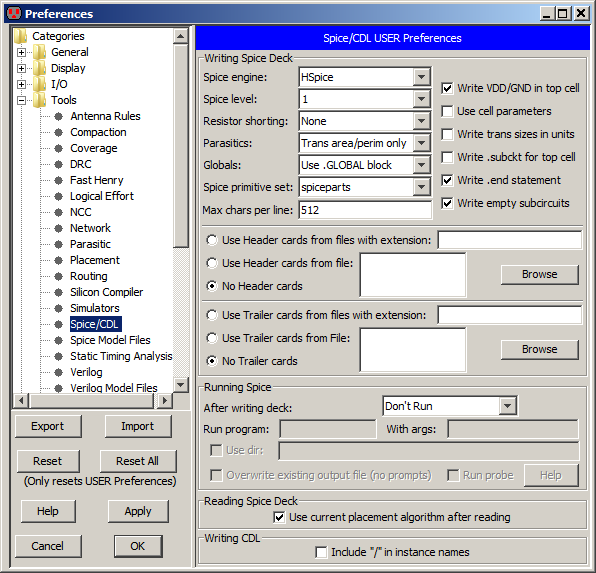
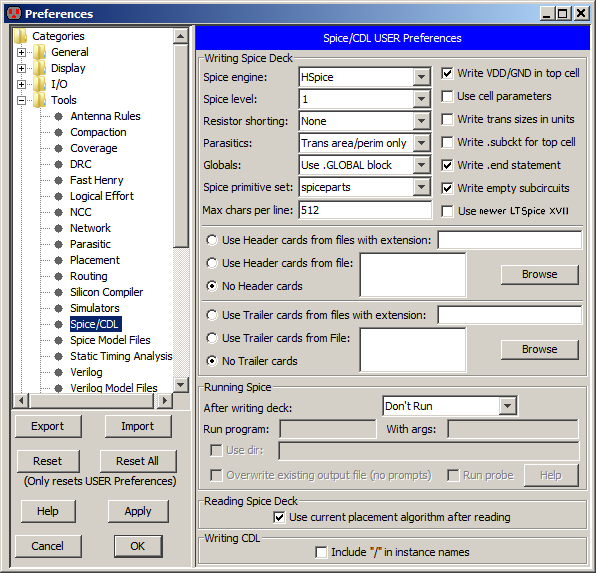
New code to handle latest LTSpice raw output
git-svn-id: svn://svn.savannah.gnu.org/electric/trunk@235 b905213a-9962-419e-bd63-4c908b0646d6

Changed region(s): [[0.7248, 0.1187, 0.9966, 0.3857]]

diff --git a/electric/electric-java/com/sun/electric/tool/user/help/helphtml/chap09-04-03.html b/electric/electric-java/com/sun/electric/tool/user/help/helphtml/chap09-04-03.html
@@ -164,6 +164,7 @@ The default is to write the top-level cell without a subcircuit wrapper.</LI>
 <LI><B>Write .end statement</B> Requests that an .end statement be written at the end of the deck.
 This can be disabled in situations where the deck is part of a larger Spice deck.</LI>
 <LI><B>Write empty subcircuits</B> Requests that all subcircuits be written to the deck, even those with nothing in them.</LI>
+<LI><B>Use newer LTSpice XVII</B> Requests that raw LTSpice files use the newer (version XVII) format when plotting Spice result.</LI>
 <LI><B>Use Header cards from files with extension</B>
 specifies that header cards (placed at the start of the Spice deck)
 can be found in a file with the cell's name and the given extension.</LI>

diff --git a/electric/electric-java/com/sun/electric/tool/io/input/RawSpiceOut.java b/electric/electric-java/com/sun/electric/tool/io/input/RawSpiceOut.java
@@ -6,7 +6,7 @@
  * Input/output tool: reader for Raw Spice output (.raw)
  * Written by Steven M. Rubin.
  *
- * Copyright (c) 2004, Static Free Software. All rights reserved.
+ * Copyright (c) 2020, Static Free Software. All rights reserved.
  *
  * Electric(tm) is free software; you can redistribute it and/or modify
  * it under the terms of the GNU General Public License as published by
@@ -28,15 +28,16 @@ import com.sun.electric.tool.simulation.MutableSignal;
 import com.sun.electric.tool.simulation.ScalarSample;
 import com.sun.electric.tool.simulation.Signal;
 import com.sun.electric.tool.simulation.SignalCollection;
+import com.sun.electric.tool.simulation.SimulationTool;
 import com.sun.electric.tool.simulation.Stimuli;
 import com.sun.electric.tool.simulation.SweptSample;
 import com.sun.electric.util.TextUtils;
 
+import java.io.File;
 import java.io.IOException;
-import java.nio.ByteOrder;
 import java.net.URL;
+import java.nio.ByteOrder;
 import java.util.ArrayList;
-import java.util.HashMap;
 import java.util.List;
 
 /**
@@ -64,12 +65,15 @@ public class RawSpiceOut extends Input<Stimuli>
 		// open the file
 		if (openBinaryInput(fileURL)) return sd;
 
+        // see if using newer or older versions of raw LTSpice
+		boolean newRawLTspice = SimulationTool.isSpiceUseNewerLTSpice();
+
 		// show progress reading .raw file
-		System.out.println("Reading Spice3/NGSpice/LTSpice/SmartSpice raw output file: " + fileURL.getFile());
+		System.out.println("Reading Spice3/NGSpice/" + (newRawLTspice ? "LTSpiceXVII" : "LTSpiceIV") + "/SmartSpice raw output file: " + fileURL.getFile());
 		startProgressDialog("LTSpice output", fileURL.getFile());
 
-		// read the actual signal data from the .raw file
-		sd = readRawSpice3File(cell, sd);
+        // read the actual signal data from the .raw file
+		sd = readRawSpice3File(cell, sd, newRawLTspice);
 
 		// stop progress dialog, close the file
 		stopProgressDialog();
@@ -77,7 +81,7 @@ public class RawSpiceOut extends Input<Stimuli>
         return sd;
 	}
 
-	private Stimuli readRawSpice3File(Cell cell, Stimuli sd)
+	private Stimuli readRawSpice3File(Cell cell, Stimuli sd, boolean newRawLTspice)
 		throws IOException
 	{
 		complexValues = false;
@@ -98,6 +102,7 @@ public class RawSpiceOut extends Input<Stimuli>
 			String line = getLineFromBinary();
 			if (line == null) break;
 			updateProgressDialog(line.length());
+			if (newRawLTspice) line = new String(line.getBytes(), "UTF-16");
 
 			// make sure this isn't an HSPICE deck (check first line)
 			if (first)
@@ -344,6 +349,7 @@ if (OLD) firstFieldIsTime = true;
                         restOfLine = getLineFromBinary();
                         if (restOfLine == null) break;
                         updateProgressDialog(restOfLine.length());
+                        if (newRawLTspice) restOfLine = new String(restOfLine.getBytes(), "UTF-16");
                         restOfLine = restOfLine.trim();
                         int indexOnLine = TextUtils.atoi(restOfLine);
                         if (indexOnLine != i)
@@ -395,6 +401,13 @@ if (OLD) continue;
                         System.out.println(signalCount+" VARIABLES, "+rowCount+" SAMPLES");
                         for(int i=0; i<signalCount; i++)
                             System.out.println("VARIABLE "+i+" IS "+signalNames[i]);
+                    }
+
+                    if (newRawLTspice)
+                    {
+                    	// remove a character (2 bytes) at end of header to make alignment for reading binary block
+                    	int c = dataInputStream.read();
+                    	updateProgressDialog(Integer.toString(c).length());
                     }
 
                     // read all of the data in the RAW file

diff --git a/electric/electric-java/com/sun/electric/tool/user/dialogs/options/SpiceTab.java b/electric/electric-java/com/sun/electric/tool/user/dialogs/options/SpiceTab.java
@@ -116,6 +116,7 @@ public class SpiceTab extends PreferencePanel
 		spiceWriteSubcktTopCell.setSelected(SimulationTool.isSpiceWriteSubcktTopCell());
 		spiceWriteEndStatement.setSelected(SimulationTool.isSpiceWriteFinalDotEnd());
 		spiceWriteEmptySubcircuits.setSelected(SimulationTool.isSpiceWriteEmptySubckts());
+		spiceUseNewerLTSpice.setSelected(SimulationTool.isSpiceUseNewerLTSpice());
 
 		// bottom of the top section: header and trailer cards
 		String spiceHeaderCardInitial = SimulationTool.getSpiceHeaderCardInfo();
@@ -250,6 +251,9 @@ public class SpiceTab extends PreferencePanel
 		booleanNow = spiceWriteEmptySubcircuits.isSelected();
 		if (SimulationTool.isSpiceWriteEmptySubckts() != booleanNow) SimulationTool.setSpiceWriteEmptySubckts(booleanNow);
 
+		booleanNow = spiceUseNewerLTSpice.isSelected();
+		if (SimulationTool.isSpiceUseNewerLTSpice() != booleanNow) SimulationTool.setSpiceUseNewerLTSpice(booleanNow);
+
 		// bottom of the top section: header and trailer cards
 		String header = Spice.SPICE_NOEXTENSION_PREFIX;
 		if (spiceHeaderCardExtension.getText().length() > 0)
@@ -341,6 +345,8 @@ public class SpiceTab extends PreferencePanel
 			SimulationTool.setSpiceWriteFinalDotEnd(SimulationTool.isFactorySpiceWriteFinalDotEnd());
 		if (SimulationTool.isFactorySpiceWriteEmptySubckts() != SimulationTool.isSpiceWriteEmptySubckts())
 			SimulationTool.setSpiceWriteEmptySubckts(SimulationTool.isFactorySpiceWriteEmptySubckts());
+		if (SimulationTool.isFactorySpiceUseNewerLTSpice() != SimulationTool.isSpiceUseNewerLTSpice())
+			SimulationTool.setSpiceUseNewerLTSpice(SimulationTool.isFactorySpiceUseNewerLTSpice());
 
 		if (!SimulationTool.getFactorySpiceHeaderCardInfo().equals(SimulationTool.getSpiceHeaderCardInfo()))
 			SimulationTool.setSpiceHeaderCardInfo(SimulationTool.getFactorySpiceHeaderCardInfo());
@@ -433,6 +439,7 @@ public class SpiceTab extends PreferencePanel
         spiceWriteSubcktTopCell = new javax.swing.JCheckBox();
         spiceWritePwrGndSubcircuit = new javax.swing.JCheckBox();
         spiceWriteEmptySubcircuits = new javax.swing.JCheckBox();
+        spiceUseNewerLTSpice = new javax.swing.JCheckBox();
         modelCards = new javax.swing.JPanel();
         spiceHeaderCardExtension = new javax.swing.JTextField();
         spiceNoHeaderCards = new javax.swing.JRadioButton();
@@ -764,6 +771,14 @@ public class SpiceTab extends PreferencePanel
         gridBagConstraints.anchor = java.awt.GridBagConstraints.WEST;
         upperRight.add(spiceWriteEmptySubcircuits, gridBagConstraints);
 
+        spiceUseNewerLTSpice.setText("Use newer LTSpice XVII");
+        spiceUseNewerLTSpice.setToolTipText("");
+        gridBagConstraints = new java.awt.GridBagConstraints();
+        gridBagConstraints.gridx = 0;
+        gridBagConstraints.gridy = 6;
+        gridBagConstraints.anchor = java.awt.GridBagConstraints.WEST;
+        upperRight.add(spiceUseNewerLTSpice, gridBagConstraints);
+
         gridBagConstraints = new java.awt.GridBagConstraints();
         gridBagConstraints.gridx = 1;
         gridBagConstraints.gridy = 0;
@@ -1030,6 +1045,7 @@ public class SpiceTab extends PreferencePanel
     private javax.swing.JRadioButton spiceTrailerCardsFromFile;
     private javax.swing.JRadioButton spiceTrailerCardsWithExtension;
     private javax.swing.JCheckBox spiceUseCellParameters;
+    private javax.swing.JCheckBox spiceUseNewerLTSpice;
     private javax.swing.JCheckBox spiceWriteEmptySubcircuits;
     private javax.swing.JCheckBox spiceWriteEndStatement;
     private javax.swing.JCheckBox spiceWritePwrGndSubcircuit;

diff --git a/electric/electric-java/com/sun/electric/tool/simulation/SimulationTool.java b/electric/electric-java/com/sun/electric/tool/simulation/SimulationTool.java
@@ -1655,6 +1655,14 @@ public class SimulationTool extends Tool
 	public static void setSpiceWriteEmptySubckts(boolean b) { cacheSpiceWriteEmptySubckts.setBoolean(b); }
 	public static boolean isFactorySpiceWriteEmptySubckts() { return cacheSpiceWriteEmptySubckts.getBooleanFactoryValue(); }
 
+	private static Pref cacheSpiceUseNewerLTSpice = Pref.makeBooleanPref("SpiceUseNewerLTSpice", tool.prefs, false);
+	/** Get whether or not to use the newer LTSpice XVII when reading raw output */
+	public static boolean isSpiceUseNewerLTSpice() { return cacheSpiceUseNewerLTSpice.getBoolean(); }
+	/** Set whether or not to use the newer LTSpice XVII when reading raw output */
+	public static void setSpiceUseNewerLTSpice(boolean b) { cacheSpiceUseNewerLTSpice.setBoolean(b); }
+	/** Get whether or not to use the newer LTSpice XVII when reading raw output, by default */
+	public static boolean isFactorySpiceUseNewerLTSpice() { return cacheSpiceUseNewerLTSpice.getBooleanFactoryValue(); }
+
 	private static Pref cacheSpiceWriteFinalDotEnd = Pref.makeBooleanPref("SpiceWriteFinalDotEnd", tool.prefs, true);
 	public static boolean isSpiceWriteFinalDotEnd() { return cacheSpiceWriteFinalDotEnd.getBoolean(); }
 	public static void setSpiceWriteFinalDotEnd(boolean b) { cacheSpiceWriteFinalDotEnd.setBoolean(b); }
